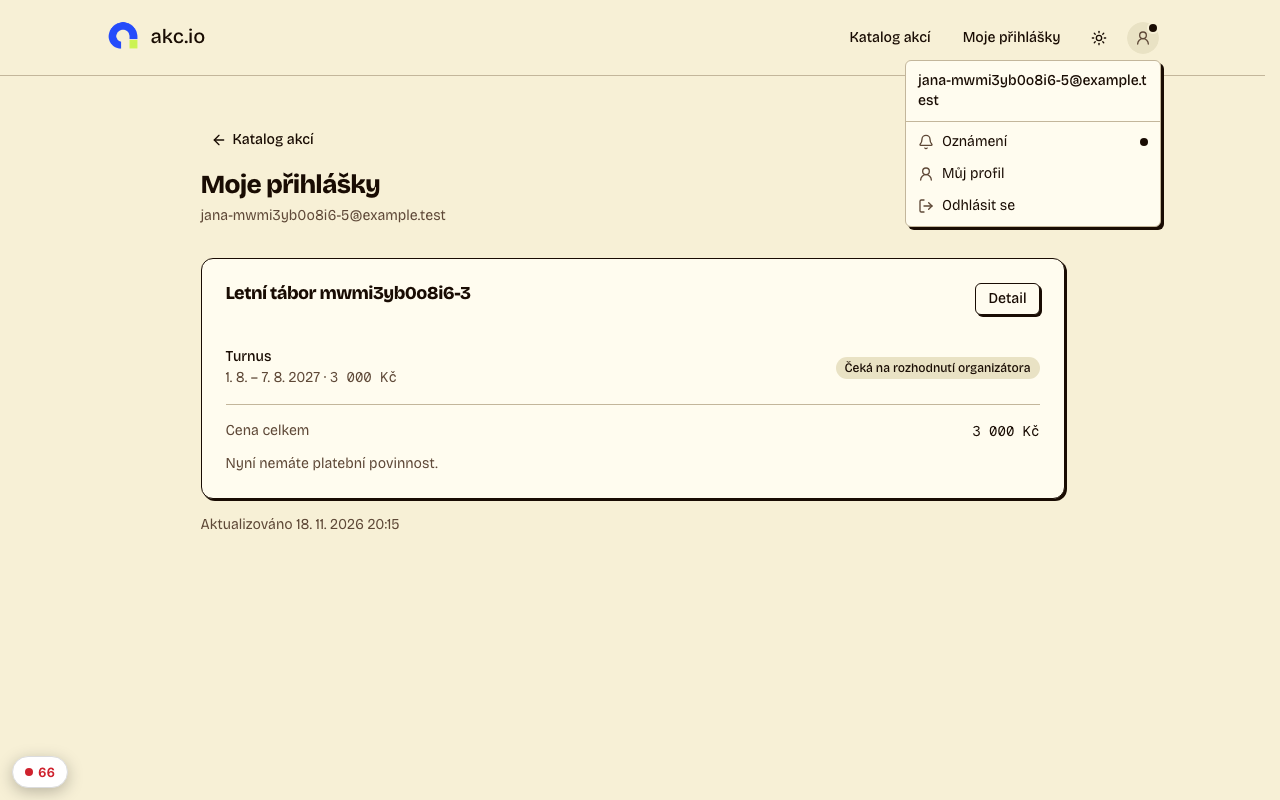
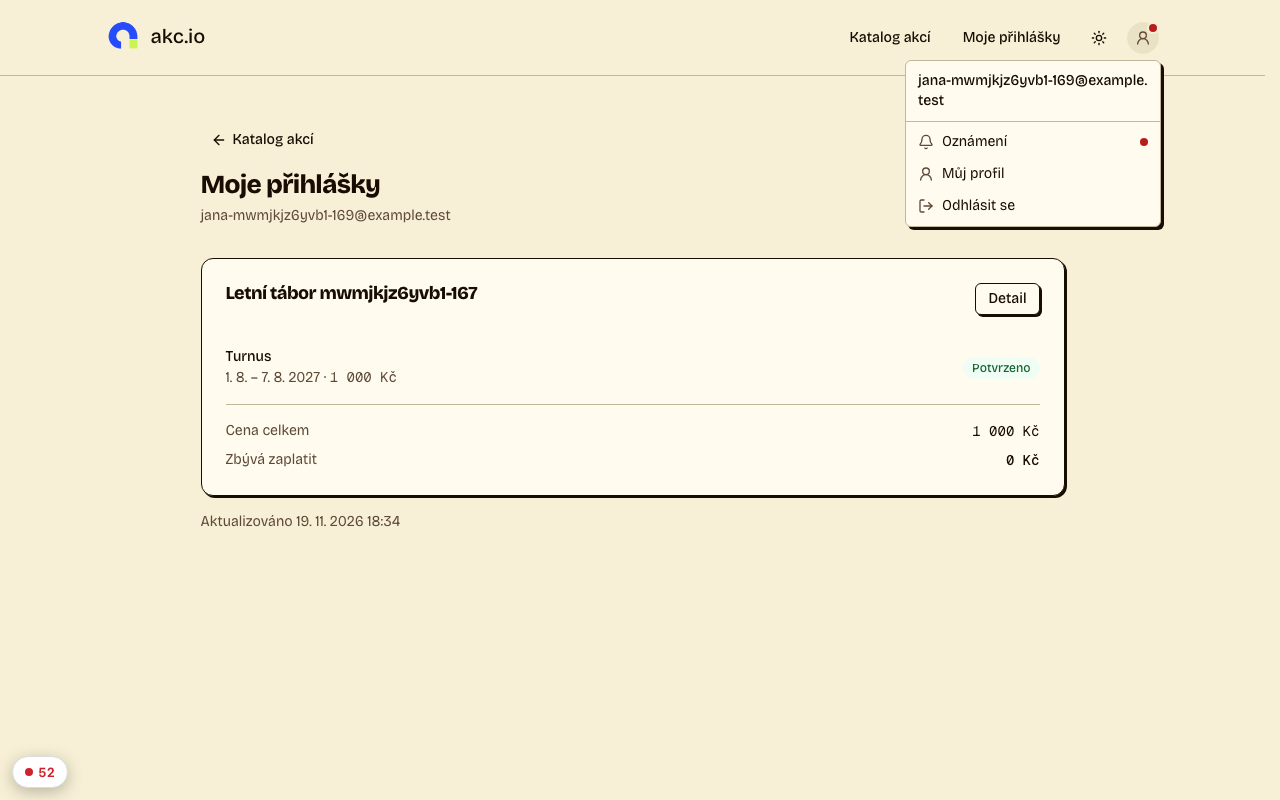
fix(notifications): red unread dot

diff --git a/apps/frontend/src/features/participant-access/components/UnreadDot.tsx b/apps/frontend/src/features/participant-access/components/UnreadDot.tsx
@@ -6,14 +6,15 @@ type UnreadDotProps = {
 }
 
 // The only mark of an unread notification (S4-06). It is decorative: the
-// meaning reaches assistive technology as text next to it. Ink, not a status
-// colour: unread is neither an error (destructive) nor visible in lime on paper.
+// meaning reaches assistive technology as text next to it. Red, the colour
+// people expect of a notification badge; `destructive` has AA contrast on the
+// page in both themes.
 export function UnreadDot({ className }: UnreadDotProps) {
   return (
     <span
       aria-hidden
       data-slot="unread-dot"
-      className={cn("size-2 shrink-0 rounded-full bg-foreground", className)}
+      className={cn("size-2 shrink-0 rounded-full bg-destructive", className)}
     />
   )
 }
